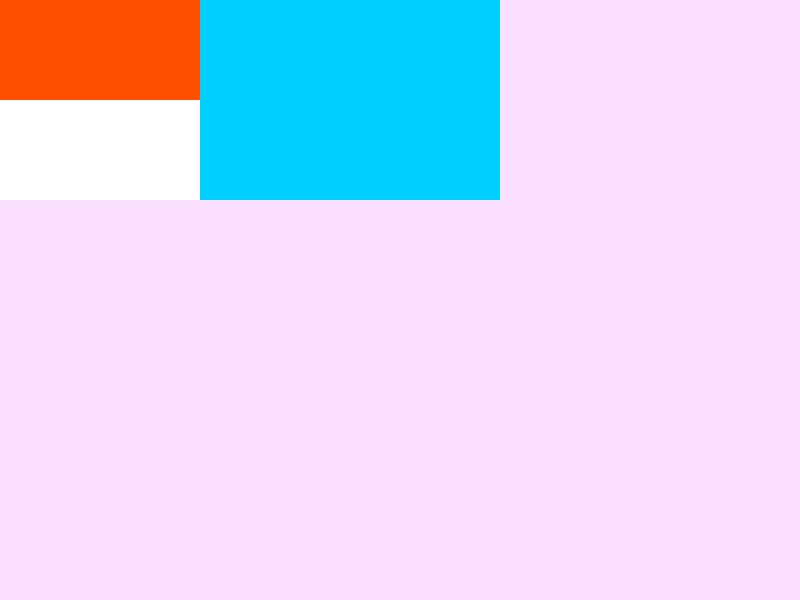
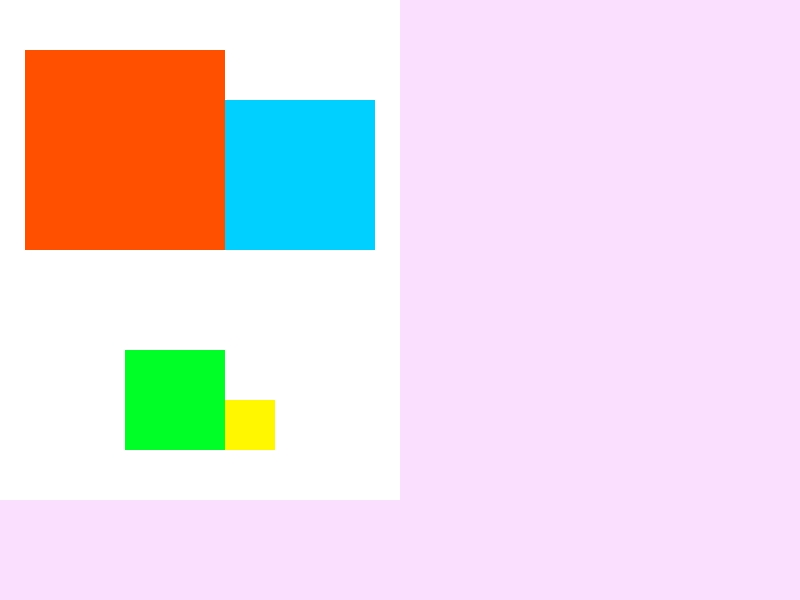
week07 02 fix

diff --git a/week07/homework/toy-browser/layout.js b/week07/homework/toy-browser/layout.js
@@ -1,6 +1,8 @@
 function getStyle(element) {
   if(!element.style) {
     element.style = {};
+  } else {
+    return element.style;
   }
 
   for(let prop in element.computedStyle) {
@@ -29,30 +31,30 @@ function layout(element) {
   let style = elementStyle; // 为了简化以下的一系列判断和初始化
 
   ['width', 'height'].forEach(size => {
-    if(style[size] === 'auto' || style[size] === '') {
+    if(style[size] === 'auto' || style[size] === void 0) {
       style[size] = null;
     }
   })
 
-  if(!style.flexDirection || style.flexDirection == 'auto') {
-    style.flexDirection = 'row';
+  if(!style['flex-direction'] || style['flex-direction'] == 'auto') {
+    style['flex-direction'] = 'row';
   }
-  if(!style.justifyContent || style.justifyContent == 'auto') {
-    style.justifyContent = 'flex-start';
+  if(!style['justify-content'] || style['justify-content'] == 'auto') {
+    style['justify-content'] = 'flex-start';
   }
-  if(!style.alignItems || style.alignItems == 'auto') {
-    style.alignItems = 'strech';
+  if(!style['align-items'] || style['align-items'] == 'auto') {
+    style['align-items'] = 'strech';
   }
-  if(!style.alignContent || style.flexDiralignContentection == 'auto') {
-    style.alignContent = 'strech';
+  if(!style['align-content'] || style['align-content'] == 'auto') {
+    style['align-content'] = 'strech';
   }
-  if(!style.flexWrap || style.flexWrap == 'auto') {
-    style.flexWrap = 'nowrap';
+  if(!style['flex-wrap'] || style['flex-wrap'] == 'auto') {
+    style['flex-wrap'] = 'nowrap';
   }
 
   let mainSize, mainStart, mainEnd, mainSign, mainBase,
       crossSize, crossStart, crossEnd, crossSign, crossBase;
-  if(style.flexDirection == 'row') {
+  if(style['flex-direction'] == 'row') {
     mainSize = 'width';
     mainStart = 'left';
     mainEnd = 'right';
@@ -63,7 +65,7 @@ function layout(element) {
     crossStart = 'top';
     crossEnd = 'bottom';
   }
-  if(style.flexDirection == 'row-reverse') {
+  if(style['flex-direction'] == 'row-reverse') {
     mainSize = 'width';
     mainStart = 'right';
     mainEnd = 'left';
@@ -75,7 +77,7 @@ function layout(element) {
     crossEnd = 'bottom';
   }
 
-  if(style.flexDirection == 'column') {
+  if(style['flex-direction'] == 'column') {
     mainSize = 'height';
     mainStart = 'top';
     mainEnd = 'bottom';
@@ -86,7 +88,7 @@ function layout(element) {
     crossStart = 'left';
     crossEnd = 'right';
   }
-  if(style.flexDirection == 'column-reverse') {
+  if(style['flex-direction'] == 'column-reverse') {
     mainSize = 'height';
     mainStart = 'bottom';
     mainEnd = 'top';
@@ -98,10 +100,11 @@ function layout(element) {
     crossEnd = 'right';
   }
 
-  if(style.flexWrap == 'wrap-reverse') {
-    let tmp = crossStart;
-    crossStart = crossEnd;
-    crossEnd = tmp;
+  if(style['flex-wrap'] == 'wrap-reverse') {
+    // let tmp = crossStart;
+    // crossStart = crossEnd;
+    // crossEnd = tmp;
+    [crossStart, crossEnd] = [crossEnd, crossStart];
     crossSign = -1;
   } else {
     crossSign = 1;
@@ -135,7 +138,7 @@ function layout(element) {
 
     if(itemStyle.flex) {
       flexLine.push(item);
-    } else if(elementStyle.flexWrap === 'nowrap' && isAutoMainSize) {
+    } else if(elementStyle['flex-wrap'] === 'nowrap' || isAutoMainSize) {
       mainSpace -= itemStyle[mainSize];
       if(itemStyle[crossSize] !== null && itemStyle[crossSize] !== (void 0)) {
         crossSpace = Math.max(crossSpace, itemStyle[crossSize]);
@@ -156,14 +159,14 @@ function layout(element) {
         flexLine.push(item);
       }
       if(itemStyle[crossSize] !== null && itemStyle[crossSize] !== (void 0)) {
-        crossSpace = Math.max(crossSpace, itemStyle[crossSpace]);
+        crossSpace = Math.max(crossSpace, itemStyle[crossSize]);
       }
       mainSpace -= itemStyle[mainSize];
     }
   }
   flexLine.mainSpace = mainSpace;
 
-  if(elementStyle.flexWrap === 'nowrap' || isAutoMainSize) {
+  if(elementStyle['flex-wrap'] === 'nowrap' || isAutoMainSize) {
     flexLine.crossSpace = elementStyle[crossSize] !== (void 0) ? elementStyle[crossSize] : crossSize;
   } else {
     flexLine.crossSpace = crossSpace;
@@ -217,23 +220,23 @@ function layout(element) {
         // There is *NO* flexible flex items, which means, justifyContent should work
         let currentMain; // 起始位置
         let step; // 元素之间的间距
-        if(elementStyle.justifyContent === 'flex-start') {
+        if(elementStyle['justify-content'] === 'flex-start') {
           currentMain = mainBase;
           step = 0;
         }
-        if(elementStyle.justifyContent === 'flex-end') {
+        if(elementStyle['justify-content'] === 'flex-end') {
           currentMain = mainSpace * mainSign + mainBase;
           step = 0;
         }
-       if(elementStyle.justifyContent === 'center') {
+       if(elementStyle['justify-content'] === 'center') {
           currentMain = mainSpace / 2 + mainBase;
           step = 0;
         }
-        if(elementStyle.justifyContent === 'space-between') {
+        if(elementStyle['justify-content'] === 'space-between') {
           step = mainSpace / (items.length - 1) * mainSign;
           currentMain = mainBase;
         }
-        if(elementStyle.justifyContent === 'space-around') {
+        if(elementStyle['justify-content'] === 'space-around') {
           step = mainSpace / items.length * mainSign;
           currentMain = step / 2 + mainBase;
         }
@@ -264,7 +267,7 @@ function layout(element) {
     }
   }
 
-  if(elementStyle.flexWrap === 'wrap-reverse') {
+  if(elementStyle['flex-wrap'] === 'wrap-reverse') {
     crossBase = elementStyle[crossSize];
   } else {
     crossBase = 0;
@@ -272,38 +275,38 @@ function layout(element) {
 
   let lineSize = elementStyle[crossSize] / flexLines.length;
   let step;
-  if(elementStyle.alignContent === 'flex-start') {
+  if(elementStyle['align-content'] === 'flex-start') {
     crossBase += 0;
     step = 0;
   }
-  if(elementStyle.alignContent === 'flex-end') {
+  if(elementStyle['align-content'] === 'flex-end') {
     crossBase += crossSign * crossSpace;
     step = 0;
   }
-  if(elementStyle.alignContent === 'center') {
+  if(elementStyle['align-content'] === 'center') {
     crossBase += crossSign * crossSpace / 2;
     step = 0;
   }
-  if(elementStyle.alignContent === 'space-between') {
+  if(elementStyle['align-content'] === 'space-between') {
     crossBase += 0;
     step = crossSpace / (flexLines.length - 1);
   }
-  if(elementStyle.alignContent === 'space-around') {
+  if(elementStyle['align-content'] === 'space-around') {
     step = crossSpace / flexLines.length;
     crossBase += crossSign * step / 2;
   }
-  if(elementStyle.alignContent === 'strech') {
+  if(elementStyle['align-content'] === 'strech') {
     crossBase += 0;
     step = 0;
   }
   flexLines.forEach(items => {
-    let lineCrossSize = elementStyle.alignContent === 'strech' ? items.crossSpace + crossSpace / flexLines.length : items.crossSpace;
+    let lineCrossSize = elementStyle['align-content'] === 'strech' ? items.crossSpace + crossSpace / flexLines.length : items.crossSpace;
     for(let item of items) {
       let itemStyle = getStyle(item);
 
-      let align = itemStyle.alignSelf || elementStyle.alignItems;
+      let align = itemStyle['align-self'] || elementStyle['align-items'];
 
-      if(item === null) {
+      if(itemStyle[crossSize] === null || itemStyle[crossSize] === void 0) {
         itemStyle[crossSize] = align === 'strech' ? lineCrossSize : 0;
       }
 
@@ -328,7 +331,7 @@ function layout(element) {
     }
     crossBase += crossSign * (lineCrossSize + step);
   })
-  // console.log(items)
+  console.log(items)
 }
 
 module.exports = layout;

diff --git a/week07/homework/toy-browser/index.html b/week07/homework/toy-browser/index.html
@@ -9,20 +9,35 @@
       background-color: #fadffe;
     }
     #container{
-      width: 500px;
-      height: 200px;
+      width: 400px;
+      height: 500px;
       display: flex;
       background-color: rgb(255, 255, 255);
+      align-items: flex-end;
+      flex-wrap: wrap;
+      align-content: space-around;
+      justify-content: center;
     }
 
     #container #myid{
       width: 200px;
-      height: 100px;
+      height: 200px;
       background-color: #ff5000;
     }
     #container .c1{
-      flex: 1;
+      width: 150px;
+      height: 150px;
       background-color: rgb(0, 208, 255);
+    }
+    #container .c2{
+      width: 100px;
+      height: 100px;
+      background-color: rgb(0, 255, 38);
+    }
+    #container .c3{
+      width: 50px;
+      height: 50px;
+      background-color: rgb(255, 247, 0);
     }
   </style>
 </head>
@@ -30,6 +45,8 @@
   <div id="container">
     <div id="myid"></div>
     <div class="c1"></div>
+    <div class="c1 c2"></div>
+    <div class="c1 c3"></div>
   </div>
 </body>
 </html>

diff --git a/week07/homework/toy-browser/render.js b/week07/homework/toy-browser/render.js
@@ -27,7 +27,7 @@ function render(viewport, element) {
         blue = Number('0x' + RegExp.$3);
       }
       img.fill(red, green, blue, 1);
-      viewport.draw(img, element.style.left || 0, element.style.top || 0);
+      viewport.draw(img, element.style.left || 0, element.style.top < 0 ? 0 : element.style.top);
     }
   }
 
